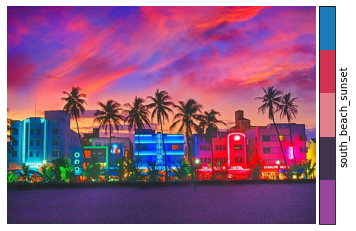
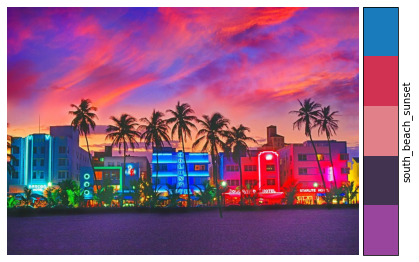
Update README

diff --git a/README.rst b/README.rst
@@ -2,7 +2,7 @@
 img2cmap
 ========
 
-Create colormaps from images in two lines of code!
+**Create colormaps from images in three lines of code!**
 
 | First, ``ImageConverter`` class converts images to arrays of RGB values.
 | Then, ``generate_cmap`` creates a matplotlib `ListedColormap <https://matplotlib.org/stable/api/_as_gen/matplotlib.colors.ListedColormap.html#matplotlib-colors-listedcolormap>`_.
@@ -22,14 +22,14 @@ Plot an image and a colorbar side by side.
     import matplotlib.pyplot as plt
     from mpl_toolkits.axes_grid1 import make_axes_locatable
 
-    fig, ax = plt.subplots()
+    fig, ax = plt.subplots(figsize=(7, 5))
 
     ax.axis("off")
     img = plt.imread("tests/images/south_beach_sunset.jpg")
     im = ax.imshow(img, cmap=cmap)
 
     divider = make_axes_locatable(ax)
-    cax = divider.append_axes("right", size="5%", pad=0.05)
+    cax = divider.append_axes("right", size="10%", pad=0.05)
 
     cb = fig.colorbar(im, cax=cax, orientation="vertical", label=cmap.name)
     cb.set_ticks([])
